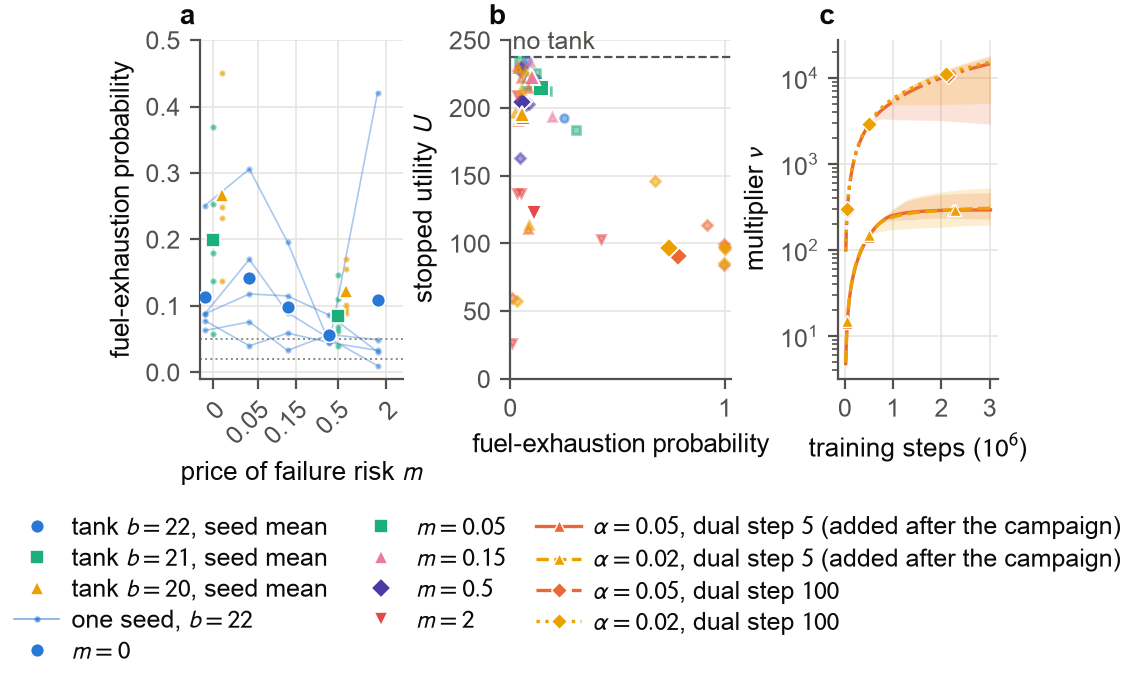
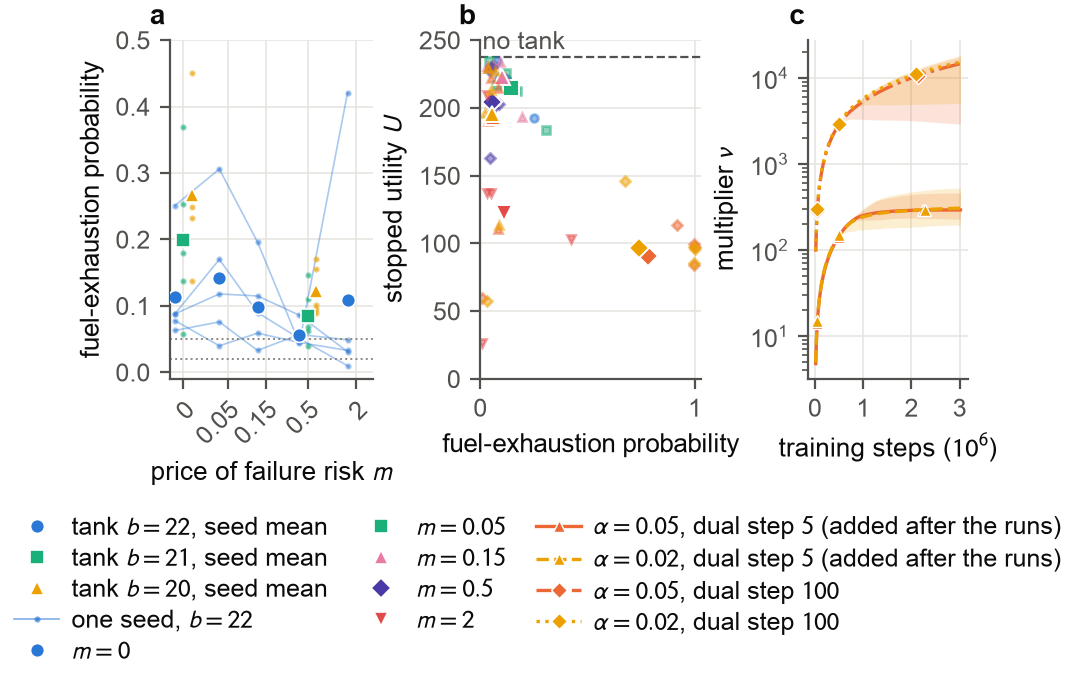
Fuel-tank figure: legend says runs instead of campaign (paper wording); data unchanged

diff --git a/fuel-tank/lunar_analyze_v41.py b/fuel-tank/lunar_analyze_v41.py
@@ -6,7 +6,7 @@ Changes against fuel-tank/lunar_analyze.py (review findings):
    design: every configuration of a seed starts from the same no-tank controller); seed means as large markers;
    tanks 22/21/20 in distinct hues; no line across the untested prices for tanks 21 and 20;
  * panel (b): the five prices in distinct hues; the adaptive configurations with dual step 5 (added after the
-   campaign) and dual step 100 (fixed before the campaign) with distinct markers;
+   campaign) and dual step 100 (fixed before the runs) with distinct markers;
  * panel (c): legend entries name both dual steps;
  * paired per-seed differences of the exhaustion probability (lunar-paired-v41.json/.tex); caption numbers
    (lunar-caption-v41.json); post-registration rows marked in the table (lunar-table-v41.tex).
@@ -235,7 +235,7 @@ def figure(protocol, runs, summary):
         n = min(len(t) for t in traces)
         steps = traces[0][:n, 0] / 1e6; M = np.array([t[:n, 1] for t in traces]); arrs += [steps, M]
         ax.plot(steps, np.maximum(M.mean(0), 1.0), color=col, ls=ls, marker=mk, markevery=(0.1, 0.25), ms=4, mec="white", mew=0.5,
-                label=f"$\\alpha={s['cfg']['alpha']:g}$, dual step ${s['cfg']['dual_step']:g}$" + (" (added after the campaign)" if s["cfg"]["dual_step"] < 50 else ""))
+                label=f"$\\alpha={s['cfg']['alpha']:g}$, dual step ${s['cfg']['dual_step']:g}$" + (" (added after the runs)" if s["cfg"]["dual_step"] < 50 else ""))
         ax.fill_between(steps, np.maximum(M.min(0), 1.0), np.maximum(M.max(0), 1.0), color=col, alpha=0.18, lw=0)
     d = digest(*arrs); DIGESTS["lunar/c multiplier traces"] = dict(before=d, after=d, changed=False)
     ax.set_yscale("log"); ax.set_xticks([0, 1, 2, 3])
